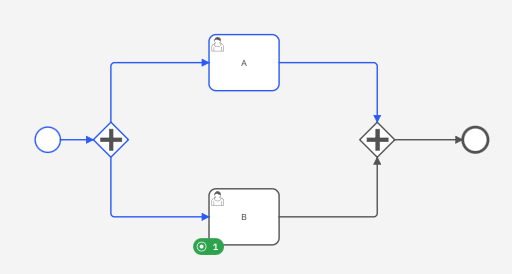
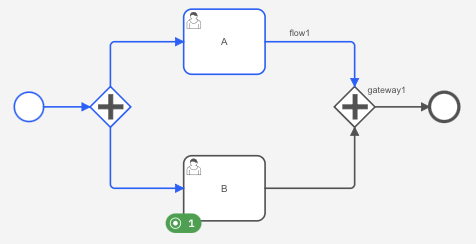
feat: add visuals

diff --git a/docs/components/concepts/process-instance-migration.md b/docs/components/concepts/process-instance-migration.md
@@ -285,11 +285,12 @@ For migrating joining gateways, the following conditions must be true:
 
 Consider the following example:
 The process instance is waiting at the joining parallel gateway, with an incoming sequence flow `flow1` is taken as the element `A` is completed. Element `B` is still active and waiting at the user task.
+
 ![The instance waiting on joining gateway.](assets/process-instance-migration/migration-joining-gateway-before.png)
 
-Then, the process definition is updated to include an element `C` as a parallel task and `D` before the joining gateway.
+Then, the process definition is updated to include an element `C` before the joining gateway.
 
-// TODO add modeler look
+![Process definition is updated to include C.](assets/process-instance-migration/migration-joining-gateway-modeler-after.png)
 
 To migrate the process instance, the following mapping instructions must be provided:
 
@@ -299,10 +300,10 @@ To migrate the process instance, the following mapping instructions must be prov
 
 After the migration, the process instance will look like the following:
 
-// TODO update image
 ![The instance waiting on service task B.](assets/process-instance-migration/migration-joining-gateway-after.png)
 
-In the example above, another element `D` is added before the joining gateway in the target process definition. To complete the process instance after the migration, element `C` must be completed. Process instance modification can be used to activate element `C` and complete it to reach the target gateway.
+In the example above, another element `C` is added before the joining gateway in the target process definition.
+To complete the process instance after the migration, element `B` must be completed.
 
 ## Process definitions and versions
 
